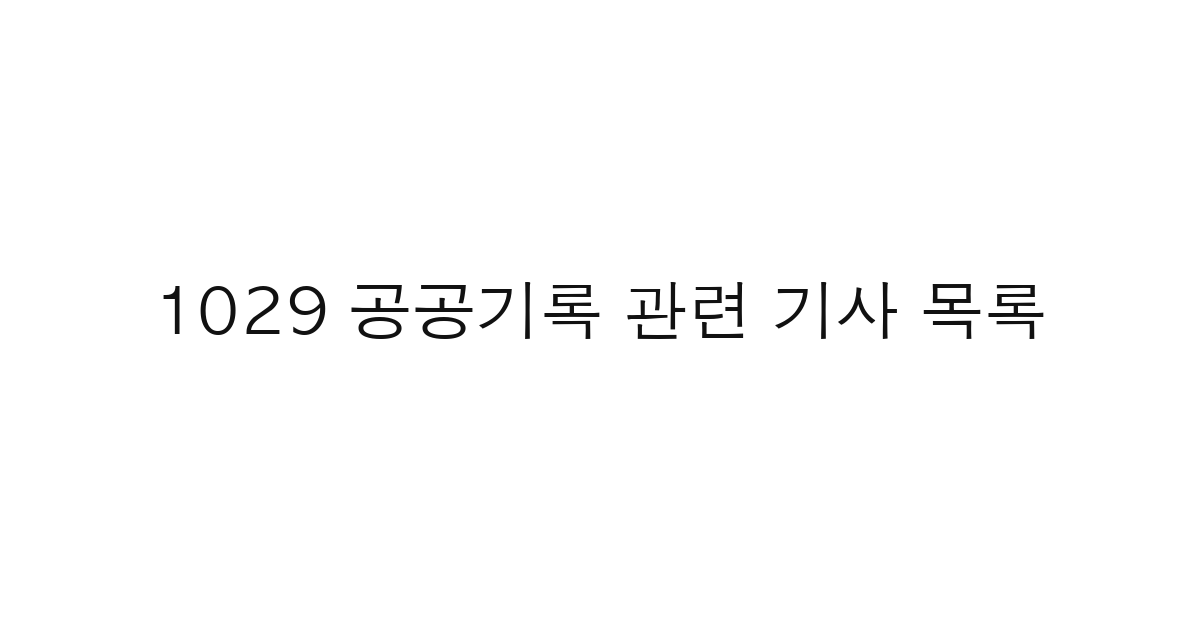
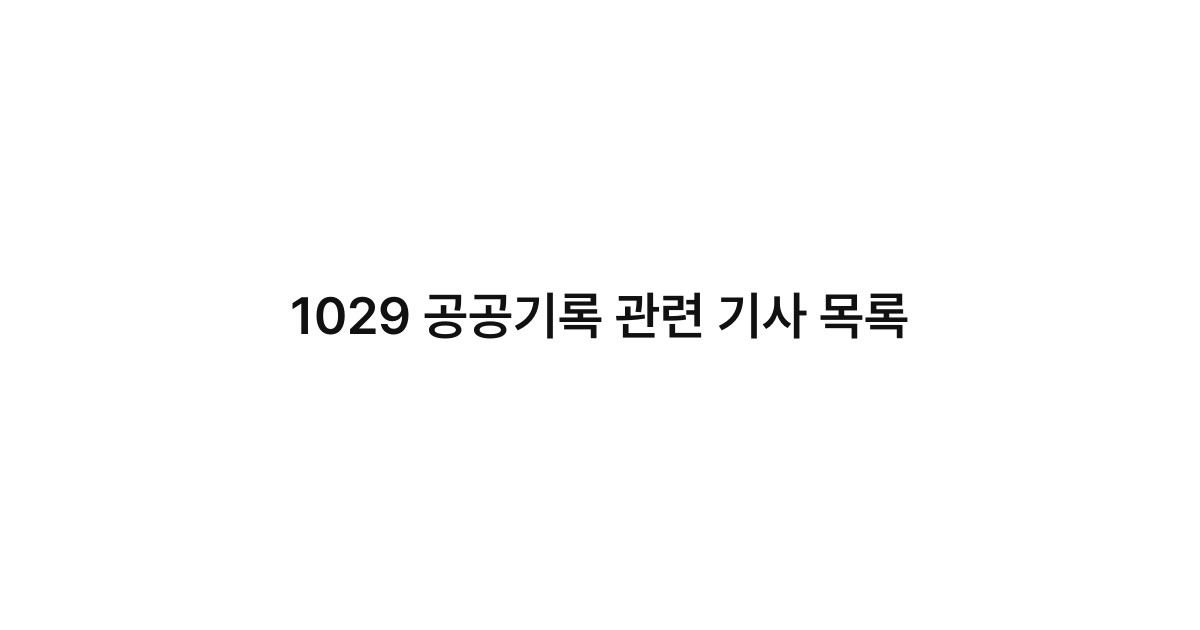
Show a loading spinner while the article list fetches.
Also redraw the OG title image with Pretendard.

Changed region(s): [[0.1233, 0.4524, 0.8633, 0.5429]]

diff --git a/1029.html b/1029.html
@@ -104,6 +104,17 @@
     .pager button:disabled { opacity: 0.4; cursor: default; }
     .pager select { font: inherit; font-size: 0.8rem; }
     .empty, .error { color: var(--muted); padding: 1.5rem 0.5rem; }
+    .loading {
+      display: flex; flex-direction: column; align-items: center; justify-content: center;
+      gap: 0.75rem; padding: 3rem 0.5rem; color: var(--muted); font-size: 0.85rem;
+    }
+    .loading[hidden] { display: none; }
+    .spinner {
+      width: 1.5rem; height: 1.5rem;
+      border: 2px solid #ddd; border-top-color: #111; border-radius: 50%;
+      animation: spin 0.7s linear infinite;
+    }
+    @keyframes spin { to { transform: rotate(360deg); } }
     footer.page-foot { margin-top: 2rem; }
     footer.page-foot a {
       display: inline-flex; align-items: center; gap: 0.4rem;
@@ -201,6 +212,10 @@
         <tbody id="tbody"></tbody>
       </table>
     </div>
+    <p class="loading" id="loading" role="status" aria-live="polite">
+      <span class="spinner" aria-hidden="true"></span>
+      목록을 불러오는 중…
+    </p>
     <p class="empty" id="empty" hidden>표시할 행이 없습니다.</p>
 
     <div class="pager" id="pager">
@@ -508,16 +523,25 @@
     async function boot() {
       const xlsx = document.getElementById('dl-all');
       if (xlsx) xlsx.href = XLSX_URL;
+      const loading = document.getElementById('loading');
+      const empty = document.getElementById('empty');
+      const sheetWrap = document.querySelector('.sheet-wrap');
+      const pager = document.getElementById('pager');
+      if (sheetWrap) sheetWrap.hidden = true;
+      if (pager) pager.hidden = true;
       try {
         const res = await fetch(DATA_URL);
         const data = await res.json();
         items = data.items || [];
         document.getElementById('total-count').textContent = data.meta?.total_count ?? items.length;
         document.getElementById('last-updated').textContent = fmt(data.meta?.last_updated);
+        if (loading) loading.hidden = true;
+        if (sheetWrap) sheetWrap.hidden = false;
+        if (pager) pager.hidden = false;
         render();
       } catch (err) {
         console.error(err);
-        const empty = document.getElementById('empty');
+        if (loading) loading.hidden = true;
         empty.hidden = false;
         empty.className = 'error';
         empty.textContent = '기사 목록 데이터를 불러오지 못했습니다.';
